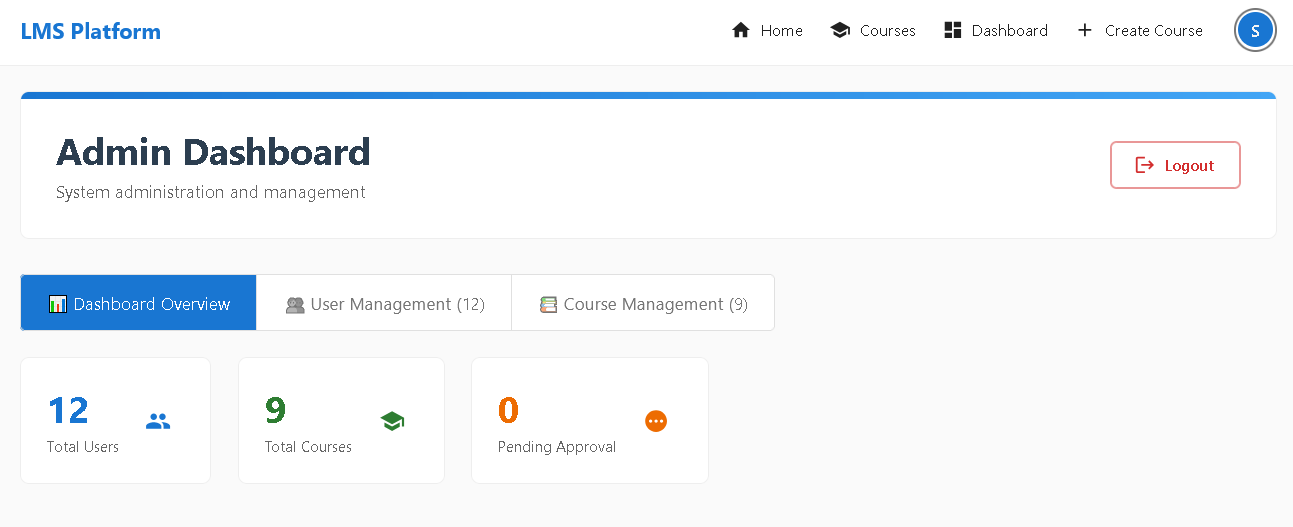
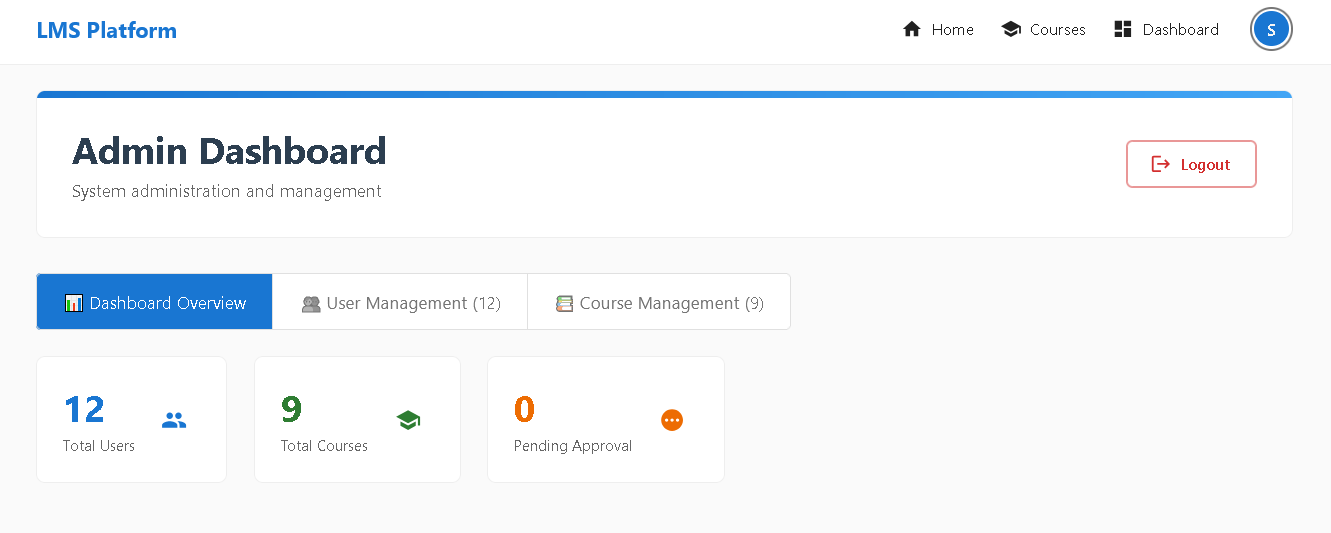
Last_edit

diff --git a/src/components/common/Header.js b/src/components/common/Header.js
@@ -65,7 +65,7 @@ const Header = () => {
     ...(isAuthenticated ? [
       { text: 'Dashboard', path: '/dashboard', icon: <DashboardIcon /> },
     ] : []),
-    ...(isInstructor || isAdmin ? [
+    ...(isInstructor ? [
       { text: 'Create Course', path: '/courses/create', icon: <AddIcon /> },
     ] : []),
   ];
